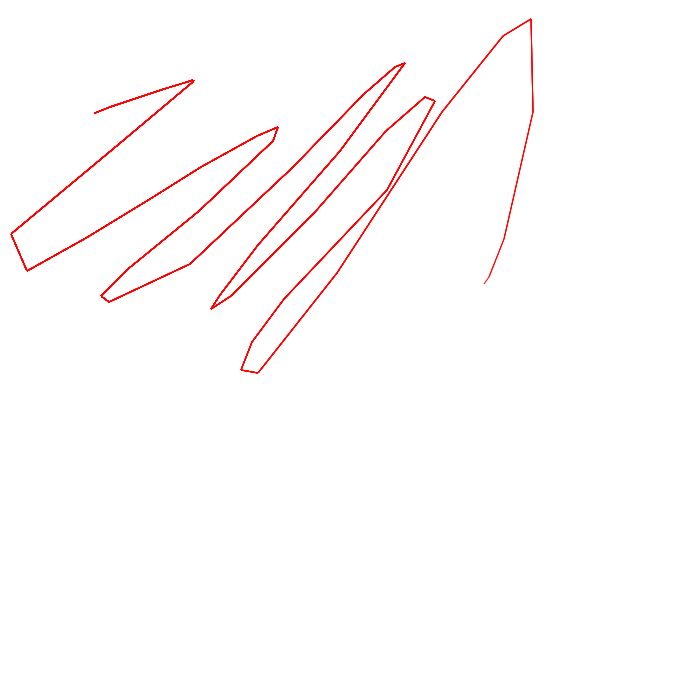
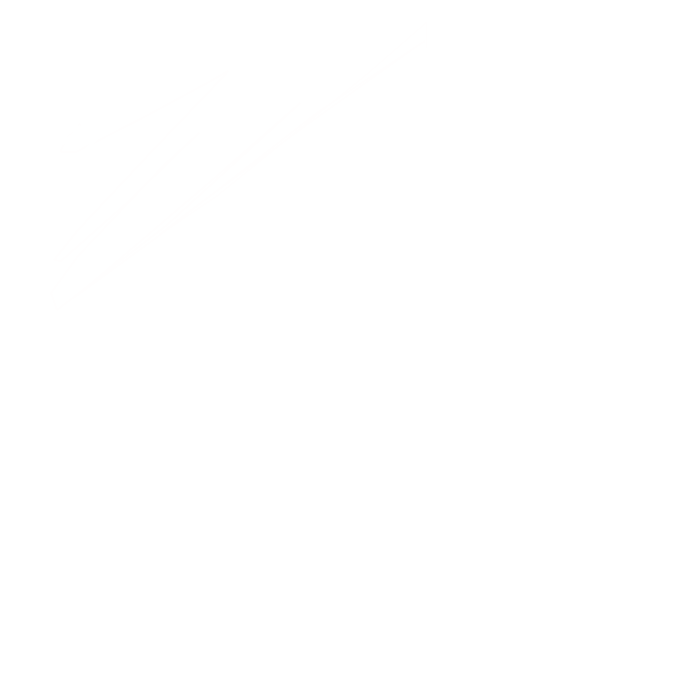
fixing a bug where erasing an annotation would never clear up the annotation canvas layer, because we needed to clear it first.

diff --git a/app/controllers/update.js b/app/controllers/update.js
@@ -56,12 +56,17 @@ gh.post("/update/{roomId}/annotate", function(args) {
 gh.post("/update/{roomId}/annotate/delete", function(args) {
   var self = this,
       roomId = args.roomId;
+      
+  //roomId came from an untrusted source, need to clean it up
+  roomId = roomId.replace(/[~`!@#$%^&*()_+=":';?\/\\>.<,]/g, "");
   sys.puts("deleting the annotation image for room: " + roomId);
+  
   //copy an empty image to the location on disk where we normally have this
   //for now everything is a 700 by 700 image so let's use what we got
-  var fileBase = __dirname + "/../../res/img/";
+  var fileBase = __dirname + "/../../res/img/annotate/";
+  var cmd = "cp " + fileBase + "empty_700_700.png " + fileBase + roomId + ".png";
   
-  exec('cp ' + fileBase + "empty_700_700.png " + fileBase + roomId + ".png", function(error, stdout, stderr) {
+  exec(cmd, function(error, stdout, stderr) {
     if (error !== null) {
       sys.puts('exec error while deleting annotation image: ' + error);
       

diff --git a/app/controllers/talk.js b/app/controllers/talk.js
@@ -18,7 +18,7 @@ gh.post("/talk", function(args) {
   }
   
   //hey let's not allow any bad input
-  message = message.replace(/[~`!@#$%^&*()_+-=":';?\/>.<,]/g, "");
+  message = message.replace(/[~`!@#$%^&*()_+-=":';?\/\\>.<,]/g, "");
   if (/^[A-Za-z0-9\s]*$/.test(message) != true) {
     sys.puts("found a message that does not match our regex: " + message);
     message = "Congratulations, you just found a golden wonka ticket.";

diff --git a/lib/room.js b/lib/room.js
@@ -93,6 +93,7 @@ function initRoom() {
       img.onload = function(){
         //get canvas context, draw image
         var annotateContext = $("canvas#annotations")[0].getContext("2d");
+        annotateContext.clearRect(0, 0, 700, 700);
         annotateContext.drawImage(img, 0, 0);
         annotateContext.stroke();
       }
